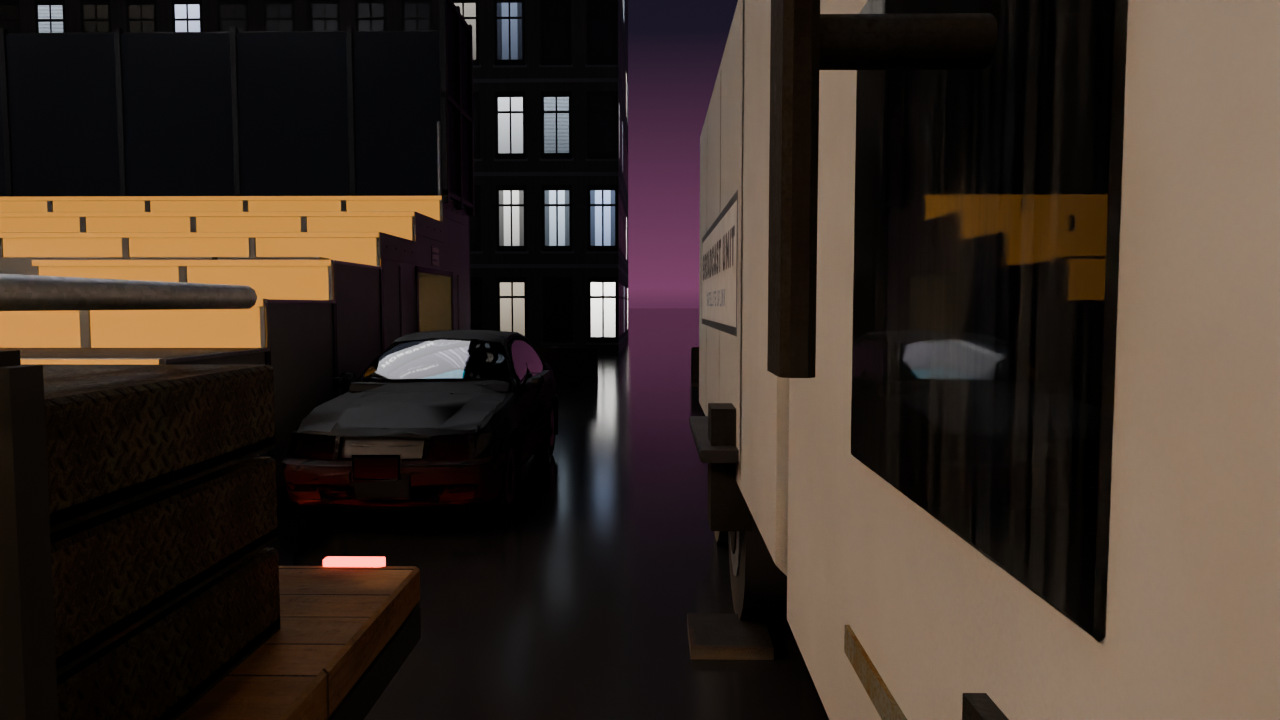
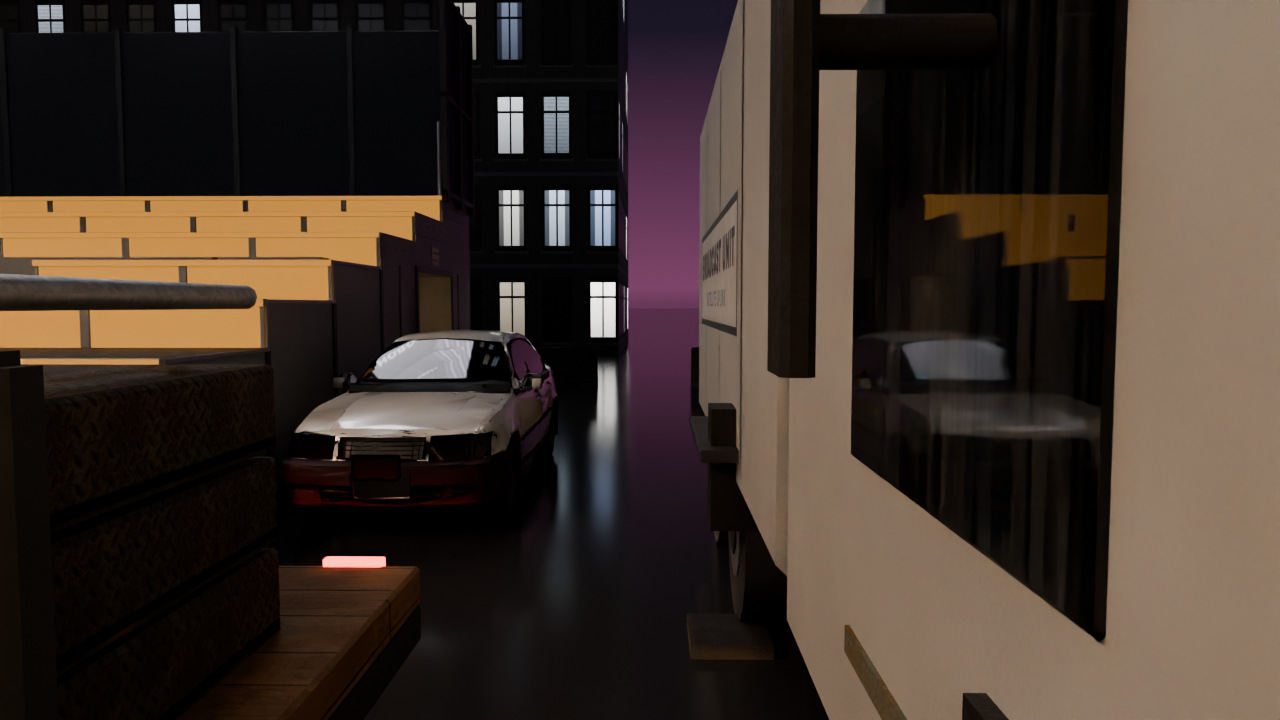
Midtown fixer pass: the parked cars at 24k (smooth-shaded, thin ribbons dropped, a paint colour per placement), mt_cars redone
Claude-Session: https://claude.ai/code/session_01HkcHdD7NbyxwnFfuuSpZY4

diff --git a/art/blender/assets/_midtown_cars.py b/art/blender/assets/_midtown_cars.py
@@ -37,9 +37,9 @@ def build(ctx):
             ctx.kit.objects.link(ob)
             ob.matrix_world = src.matrix_world.copy()
             cl._base_materials(ob)
-            cl._drop_thin_parts(ob, min_w=0.034)
+            cl._drop_thin_parts(ob, min_w=0.055)
             cl._collapse(ob, target, flat_first=True)
-            cl._drop_thin_parts(ob, min_w=0.034)
+            cl._drop_thin_parts(ob, min_w=0.055)
             ob.data.polygons.foreach_set("use_smooth", [True] * len(ob.data.polygons))       # smooth shading after the collapse (lumpy hoods)
             ob.data.update()
             cl._base_materials(ob)
